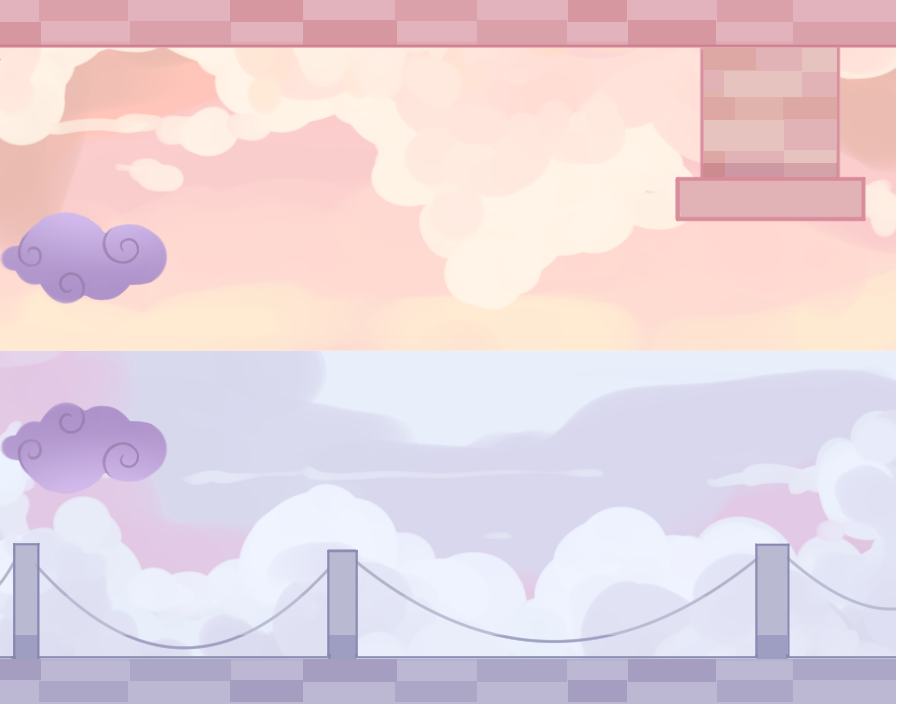
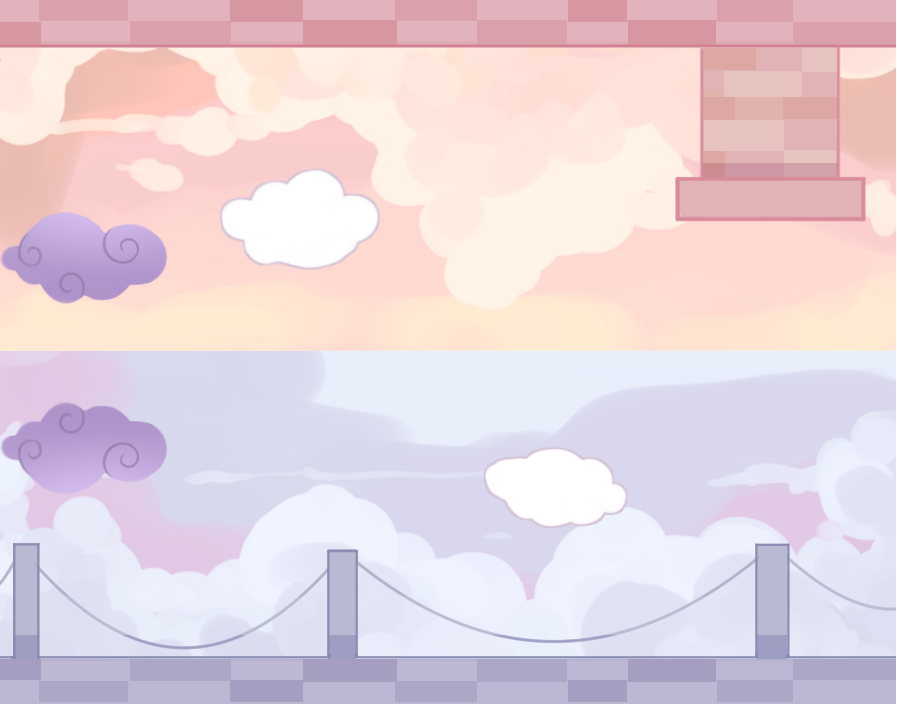
Updated cloud and tutorial levels for clearer goals
-expirimenting with text bubbles

Changed region(s): [[0.2497, 0.2184, 0.437, 0.4057], [0.5307, 0.6241, 0.7179, 0.7489]]

diff --git a/js/States/Threads.js b/js/States/Threads.js
@@ -34,14 +34,15 @@ Threads.prototype = {
         this.createPlatforms();
         this.room = game.add.sprite(0,0,'Threads');
 
-        //this.dialog = new DialogManager(game, "ball");
-       // game.add.existing(this.dialog);
-       // this.dialog.TypeIntro(2);
+        this.dialog = new DialogManager(game, "ball");
+        game.add.existing(this.dialog);
+        this.dialog.TypeIntro(3);
+        this.dialog.TypeOutro(3);
 
         // Add in the players with the Player prefab constructor
-        this.player1 = new Player(game, this, 450, 400, "cat1", 1);
+        this.player1 = new Player(game, this, 832, 482, "cat1", 1);
         game.add.existing(this.player1);
-        this.player2 = new Player(game, this, 460, 320, "cat2", 2);
+        this.player2 = new Player(game, this, 60, 222, "cat2", 2);
         game.add.existing(this.player2);
         //Add the surrogate player so our string plays nicely
         this.surrogate = new Player(game, this, 300, 100, "cat1", 3);
@@ -55,7 +56,7 @@ Threads.prototype = {
         game.add.existing(this.yarn);
 
         //Add the yarnballs for a little fun
-        this.yarnBall = game.add.sprite(452,260,'purpBall');
+        /*this.yarnBall = game.add.sprite(452,260,'purpBall');
        	//this.yarnBall.scale.setTo(0.08,0.08);
         game.add.existing(this.yarnBall);
         game.physics.p2.enable(this.yarnBall);
@@ -69,24 +70,38 @@ Threads.prototype = {
         this.yarnBall2.body.data.gravityScale = -1;
         this.yarnBall2.body.setCollisionGroup(this.objectCollisionGroup);
         this.yarnBall2.body.collides([this.playerCollisionGroup, this.surrogateCollisionGroup, this.platformCollisionGroup]);
-
+*/
         //game.time.events.add(1300, this.dialog.TypeOutro(2), this);
 	},
 	update: function(){
-		if(game.math.difference(this.player1.body.y, game.height-100) < 100) {
+        if(this.complete == true) {
+            game.time.events.add(2000, this.preFade, this);
+        }
+        if(Phaser.Math.distance(this.player2.x, this.player2.y, this.player1.x, this.player1.y) < 70){
+            this.complete = true;
+            game.add.tween(this.redGlow).to( { alpha: 0.5 }, 100, Phaser.Easing.Linear.None, true, 0);
+            this.redGlow.x = (this.player1.x + this.player2.x)/2;
+            this.redGlow.y = (this.player1.y + this.player2.y)/2;
+        }
+        else { 
+            this.complete = false;
+            game.add.tween(this.redGlow).to( { alpha: 0 }, 100, Phaser.Easing.Linear.None, true, 0);
+        }
+
+		/*if(game.math.difference(this.player1.body.y, game.height-100) < 100) {
             if(!this.outroPlaying) {
                 this.outroPlaying = true;
                 //this.narrate = game.add.audio('twoOutro');
                 //this.narrate.play('', 0, 1, false);
                 //this.narrate.volume = 1;
             }
-        }
+        }*/
         /*if(game.math.difference(this.player2.body.y, 100) < 100) {
             this.twoWinText.setText("Hold on to the other cat and let them swing", true);
         } */
 		
 		//Display text for level switching instructions
-		if(this.oneWin == true && this.twoWin == true && this.complete == false) {
+		/*if(this.oneWin == true && this.twoWin == true && this.complete == false) {
 			this.complete = true;
             game.time.events.add(1000, this.fade, this);
 		}
@@ -110,7 +125,7 @@ Threads.prototype = {
         else {
             this.twoWin = false;
             game.add.tween(this.blueGlow).to( { alpha: 0 }, 100, Phaser.Easing.Linear.None, true, 0);
-        }
+        }*/
 
         /*this.p1Controls.x = this.player1.x;
         this.p1Controls.y = this.player1.y;
@@ -160,12 +175,17 @@ Threads.prototype = {
     glow: function() {
         this.redGlow = game.add.sprite(this.player1.x, this.player1.y, 'heart');
         this.redGlow.anchor.setTo(0.5,0.5);
-        this.redGlow.scale.setTo(1.3,1.3);
+        this.redGlow.scale.setTo(1.7,1.7);
         this.redGlow.alpha = 0;
         this.blueGlow = game.add.sprite(this.player2.x, this.player2.y, 'heart');
         this.blueGlow.anchor.setTo(0.5,0.5);
         this.blueGlow.scale.setTo(1.3,-1.3);
         this.blueGlow.alpha = 0;
+    },
+    preFade: function() {
+        if(this.complete == true) {
+            game.time.events.add(1000, this.fade, this);
+        }
     },
     fade: function() {
 

diff --git a/js/States/Cats.js b/js/States/Cats.js
@@ -23,14 +23,10 @@ Cats.prototype = {
         game.physics.p2.gravity.y = 800; // Add vertical gravity
         game.physics.p2.world.defaultContactMaterial.friction = 1; // Set global friction, unless it's just friction with the world bounds
 
-        // Check for spacebar input
-        this.space = game.input.keyboard.addKey(Phaser.Keyboard.SPACEBAR);
-
         // Fade into the scene
         game.camera.flash(0xffffff, 2000);
         // Instantiate the fade events
         game.camera.onFadeComplete.add(this.resetFade, this);
-        this.space.onDown.add(this.fade, this);
 
         // Call the loaded in tilemap assets
         this.createPlatforms();
@@ -40,20 +36,29 @@ Cats.prototype = {
 
 
         //convertCollisionObjects(map, layer, addToWorld) 
-        //this.dialog = new DialogManager(game, "ball");
-        //game.add.existing(this.dialog);
+        this.dialog = new DialogManager(game, "ball");
+        game.add.existing(this.dialog);
+        this.dialog.TypeIntro(1);
+        this.dialog.TypeOutro(1);
+        
+        
 
         // Add in the players with the Player prefab constructor
         this.player1 = new Player(game, this, 68, 516, "cat1", 1);
-        game.add.existing(this.player1);
+        
 
         this.player2 = new Player(game, this, 818, 199, "cat2", 2);
+        
+
+        //Create the tutorial text
+        this.tutorialText();
+        game.add.existing(this.player1);
         game.add.existing(this.player2);
 
         this.glow();
 
         //Create the tutorial text
-        this.tutorialText();
+        //this.tutorialText();
 
         //Add the surrogate player so our string plays nicely
        /* this.surrogate = new Player(game, this, 300, 100, "cat1", 3);
@@ -94,7 +99,7 @@ Cats.prototype = {
         this.p2Controls.x = this.player2.x;
         this.p2Controls.y = this.player2.y + this.twoVertOffset;
 
-        if(game.math.difference(this.player1.body.x, game.width/2) < 100) {
+        if(game.math.difference(this.player1.body.x, game.width) < 400) {
             this.p1Controls.setText("W", true);
             this.oneVertOffset = 40;
             if(!this.outroPlaying) {
@@ -104,7 +109,7 @@ Cats.prototype = {
                 //this.narrate.volume = 1;
             }
         }
-        if(game.math.difference(this.player2.body.x, game.width/2) < 100) {
+        if(game.math.difference(this.player2.body.x, 0) < 400) {
             this.p2Controls.setText("🡫", true);
             this.twoVertOffset = 40;
             this.showExit = true;

diff --git a/js/States/Cradle.js b/js/States/Cradle.js
@@ -38,22 +38,30 @@ Cradle.prototype = {
         this.room = game.add.sprite(0,0,'Cradle');
 
 
-        //convertCollisionObjects(map, layer, addToWorld) 
-        //this.dialog = new DialogManager(game, "ball");
-        //game.add.existing(this.dialog);
+        this.dialog = new DialogManager(game, "ball");
+        game.add.existing(this.dialog);
+        this.dialog.TypeIntro(2);
+        this.dialog.TypeOutro(2);
+
+        //Create the tutorial text
+        //this.tutorialText();
+
 
         // Add in the players with the Player prefab constructor
-        this.player1 = new Player(game, this, 68, 516, "cat1", 1);
-        game.add.existing(this.player1);
+        this.player1 = new Player(game, this, 707, 416, "cat1", 1);
+        //game.add.existing(this.player1);
 
-        this.player2 = new Player(game, this, 818, 199, "cat2", 2);
+        this.player2 = new Player(game, this, 175, 350, "cat2", 2);
+        //game.add.existing(this.player2);
+
+        //Create the tutorial text
+        this.tutorialText();
+        game.add.existing(this.player1);
         game.add.existing(this.player2);
 
         this.glow();
 
-        //Create the tutorial text
-        this.tutorialText();
-
+        
         //Add the surrogate player so our string plays nicely
         this.surrogate = new Player(game, this, 300, 100, "cat1", 3);
         game.add.existing(this.surrogate);

diff --git a/js/States/Fences.js b/js/States/Fences.js
@@ -26,6 +26,10 @@ Fences.prototype = {
         game.camera.onFadeComplete.add(this.resetFade, this);
         game.camera.flash(0xffffff, 2000);
 
+
+        //this.room = game.add.sprite(0,0,'Fences');
+
+
         // Call the loaded in tilemap assets
         this.createPlatforms();
 
@@ -36,6 +40,12 @@ Fences.prototype = {
         this.room = game.add.sprite(0,0,'Fences');
 
 
+        this.dialog = new DialogManager(game, "ball");
+        game.add.existing(this.dialog);
+        this.dialog.TypeIntro(6);
+        this.dialog.TypeOutro(6);
+
+        
         // Add in the players
         this.player1 = new Player(game, this, 853, 596, "cat1", 1);
         game.add.existing(this.player1);
@@ -54,11 +64,11 @@ Fences.prototype = {
         // Create barrier between worlds
         this.createBarrier(game.width/2, game.height/2, game.width, 1);
 
-        this.cloud1 = new MovePlatform(game, this, 780, 475, 'cloud2', 475, 310, 'down', 'window');
+        /*this.cloud1 = new MovePlatform(game, this, 780, 475, 'cloud2', 475, 310, 'down', 'window');
         game.add.existing(this.cloud1);
 
         this.cloud2 = new MovePlatform(game, this, 234, 150, 'cloud6', 114, 300, 'up', 'window');
-        game.add.existing(this.cloud2);
+        game.add.existing(this.cloud2);*/
 
     },
     update: function(){

diff --git a/js/States/Clouds.js b/js/States/Clouds.js
@@ -41,7 +41,11 @@ Clouds.prototype = {
         this.room3.alpha = 0;
 
         
-
+        this.dialog = new DialogManager(game, "ball");
+        game.add.existing(this.dialog);
+        this.dialog.TypeIntro(7);
+        this.dialog.TypeOutro(7);
+        
 
         // Add in the players
         this.player1 = new Player(game, this, 85, 500, "cat1", 1);
@@ -87,7 +91,7 @@ Clouds.prototype = {
                 game.add.tween(this.barrier).to( { alpha: 0 }, 1000, Phaser.Easing.Linear.None, true, 0);
                 game.add.tween(this.room3).to( { alpha: 1 }, 1000, Phaser.Easing.Linear.None, true, 0);
             }
-            if(Phaser.Math.distance(this.player2.x, this.player2.y, this.player1.x, this.player1.y) < 70 && Phaser.Math.distance(this.player2.x, this.player2.y, game.width/2, game.height/2)){
+            if(Phaser.Math.distance(this.player2.x, this.player2.y, this.player1.x, this.player1.y) < 90 && Phaser.Math.distance(this.player2.x, this.player2.y, game.width/2, game.height/2)){
                 this.complete = true;
                 game.add.tween(this.redGlow).to( { alpha: 0.5 }, 100, Phaser.Easing.Linear.None, true, 0);
                 this.redGlow.x = (this.player1.x + this.player2.x)/2;

diff --git a/js/States/Load.js b/js/States/Load.js
@@ -61,9 +61,9 @@ Load.prototype = {
 		game.load.image('Houses', 'img/bg/new_Houses.png');
 		game.load.image('Windows', 'img/bg/new_Windows.png');
 		game.load.image('Fences', 'img/bg/new_Fences.png');
-		game.load.image('Clouds1', 'img/bg/new_cloud_puzzle2.png');
-		game.load.image('Clouds2', 'img/bg/new_cloud_puzzle3.png');
-		game.load.image('Clouds3', 'img/bg/new_cloud_puzzle4.png');
+		game.load.image('Clouds1', 'img/bg/newer_cloud_puzzle2.png');
+		game.load.image('Clouds2', 'img/bg/newer_cloud_puzzle3.png');
+		game.load.image('Clouds3', 'img/bg/newer_cloud_puzzle4.png');
 		
 		//Load in object sprites
 		game.load.image('redWindow', 'img/objects/redPullWindow.png');
@@ -75,12 +75,8 @@ Load.prototype = {
 		game.load.image('purpCloud', 'img/objects/purpCloud.png');
 		game.load.image('purpCloud2', 'img/objects/purpCloud2.png');
 		
-		
-		
-		
 		game.load.image('line', 'img/bg/line.png');
-
-
+		game.load.image('bubble', 'img/bg/bubble.png');
 
 
         game.load.tilemap('levelOne','tilemaps/Cats.json', null, Phaser.Tilemap.TILED_JSON);

diff --git a/js/States/Windows.js b/js/States/Windows.js
@@ -30,6 +30,11 @@ Windows.prototype = {
         this.createPlatforms();
 
         this.room = game.add.sprite(0,0,'Windows');
+
+        this.dialog = new DialogManager(game, "ball");
+        game.add.existing(this.dialog);
+        this.dialog.TypeIntro(5);
+        this.dialog.TypeOutro(5);
        
         this.tutorialText();
 
@@ -52,10 +57,10 @@ Windows.prototype = {
         this.createBarrier(game.width/2, game.height/2, game.width, 1);
 
 
-        this.window1 = new WindowMask(game, this, 727, 624, 'blueWindow', 'blueLatch', 600, 381, 'down');
+        this.window1 = new WindowMask(game, this, 727, 550, 'blueWindow', 'blueLatch', 600, 481, 'down');
         game.add.existing(this.window1);
 
-        this.window2 = new WindowMask(game, this, 656, 106, 'redWindow', 'redLatch', 106, 288, 'up');
+        this.window2 = new WindowMask(game, this, 656, 150, 'redWindow', 'redLatch', 106, 250, 'up');
 
         game.add.existing(this.window2);
     },

diff --git a/js/Prefabs/TextBubble.js b/js/Prefabs/TextBubble.js
@@ -5,9 +5,12 @@
 function TextBubble(game, key, x, y, width, text){
 	Phaser.Sprite.call(this, game, 0, 0, key);
 
+	this.bubble = game.add.sprite(x,y,'bubble');
+	this.bubble.anchor.setTo(0.5, 0.5);
 	//this.text = text;
-	var style = {font: 'Impact', fontSize: '27px', fill: '#FF7373', align: "center", wordWrap: true, wordWrapWidth: width};
+	var style = {font: "Lucida Sans Unicode", fontSize: '28px', fill: '#212121', align: "center", wordWrap: true, wordWrapWidth: width};
 	this.text = game.add.text(x, y, text, style);
+	this.text.anchor.setTo(0.5, 0.5);
 	this.alpha = 0;
 	this.text.alpha = 0;
 

diff --git a/js/States/Houses.js b/js/States/Houses.js
@@ -35,6 +35,11 @@ Houses.prototype = {
         // Call the background sprite
         this.room = game.add.sprite(0,0,'Houses');
 
+        this.dialog = new DialogManager(game, "ball");
+        game.add.existing(this.dialog);
+        this.dialog.TypeIntro(4);
+        this.dialog.TypeOutro(4);
+
         // Add in objective glow
         this.glow();
       
